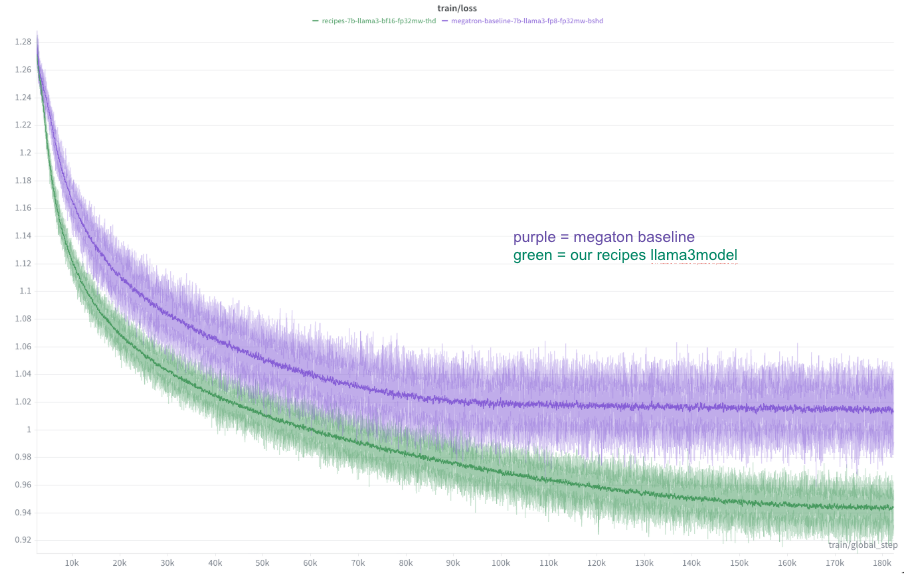
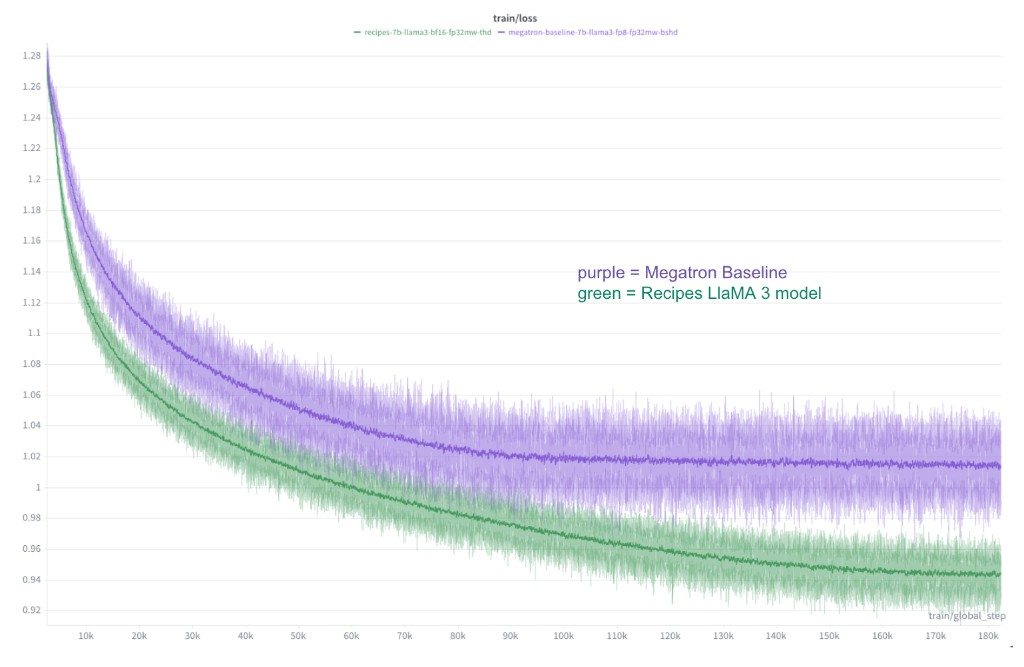
Update convergence plot and results table with final training numbers

diff --git a/bionemo-recipes/recipes/opengenome2_llama_native_te/README.md b/bionemo-recipes/recipes/opengenome2_llama_native_te/README.md
@@ -26,7 +26,7 @@ which may also contribute to its lower test performance.
 
 | Model                      | Step / checkpoint | Train loss | Mean Test loss | Mean Test Perplexity |
 | -------------------------- | ----------------- | ---------- | -------------- | -------------------- |
-| LlaMA3 Recipe (OG2 7B)     | 165000            | 0.95       | 0.92           | 2.51                 |
+| LlaMA3 Recipe (OG2 7B)     | 182313            | 0.95       | 0.92           | 2.50                 |
 | Megatron baseline (OG2 7B) | 182313            | 1.01       | 1.019          | 2.80                 |
 
 > **Evaluation methodology:** Test losses are average NLL (negative log-likelihood) computed using
